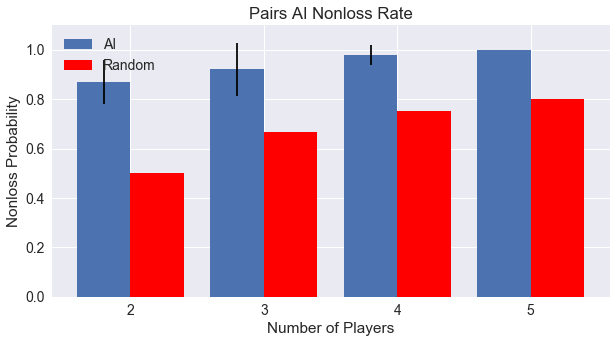
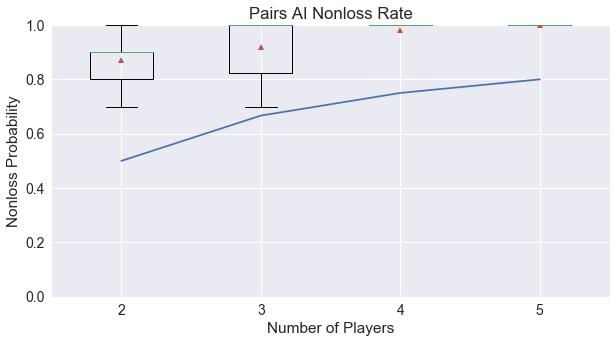
Pairs heuristics post, replaced old bar charts with box plots.

diff --git a/_posts/2019-02-04-pairs-heuristics.md b/_posts/2019-02-04-pairs-heuristics.md
@@ -1,0 +1,118 @@
+---
+layout: post
+title:  "Pairs: Advanced Heuristics"
+date:   2019-02-04 08:43:18 -0600
+categories: PRESS-YOUR-LUCK
+image: images/pairs3.jpg
+author: Mark Goadrich
+avatar: images/goadrich.png
+authorhome: http://mark.goadrich.com
+comments: true
+---
+
+It's been a month since the last post (I'm slowly realizing this will blog not be as regular as I hoped) but
+some of my other work is wrapping up, so time for more card game analysis!
+
+Now that we've seen some [basic statistics for Pairs]({% post_url 2019-01-09-pairs-statistics %}),
+let's see how it scores on our heuristics of **Fairness, Convergence, Spread, Drama, and Security**. 
+(See this previous post for a [review of the heuristics]({% post_url 2018-12-11-heuristics %}) I'll be 
+discussing.)
+
+#### Fairness = 0.99
+
+The graph here shows a box plot of the first player's win rate from 2 to 5 players, with the blue
+line showing the expected win rate for an average player.
+It looks like Pairs is overall a very fair game! In [previous work](http://mark.goadrich.com/articles/issue-2-1-09-recycled.pdf), 
+we looked at how the rule that the player with the lowest card goes first mitigates some, but not
+all, of the turn-order bias. But, since the first player is decided after the cards have been
+dealt each round, then any internal bias is averaged out across all players. 
+
+![Pairs Fairness]({{site.url}}{{site.baseurl}}/images/pairs/fairness.png){:class="post-image"}
+
+#### Convergence = 0.5
+
+Pairs players always have two choices, either to press on for another card, or take the lowest
+visible card and cut their losses. Therefore, convergence is rather uninteresting with a 
+perfectly flat slope. Moving on ...
+
+![Pairs Convergence]({{site.url}}{{site.baseurl}}/images/pairs/convergence.png){:class="post-image"}
+
+#### Spread = 0.27
+
+Recall that 
+spread is the average difference between the minimum and maximum win estimates 
+that a player estimates for themselves throughout the game. If this is high, then 
+it is evidence that the player is making interesting decisions. 
+
+The spread of scores for Pairs is much larger than we saw in Agram. First, we have a
+good way to separate the players into ranks depending on their total points at 
+the end of the game. And as you can see from the lead history below for a five-player game, there's a 
+fair amount of movement in the ranks as the game progresses.
+
+![Low Spread]({{site.url}}{{site.baseurl}}/images/pairs/allaionegame2.png){:class="post-image"}
+
+#### Drama = 0.32
+
+Looking at the above picture, the drama of Pairs appears to be low, with the player
+in blue confident in their victory after only 20% of the game has been played. However, 
+other lead histories show a different story, as shown below.
+
+![Low Spread]({{site.url}}{{site.baseurl}}/images/pairs/allaionegame.png){:class="post-image"}
+
+What a tense game! Red takes a hit early and never gets back in the game. Green appears to
+be coasting to victory after Purple takes a hit, followed quickly by Blue. But nothing is
+certain, and at around three-quarters of the game, Green takes on points, letting Purple
+regain the lead in the final rounds! With such large swings below the blue dotted
+drama threshold, we can see why this heuristic is much higher than Agram.
+
+The graph below shows the aggregate of 100 games of Pairs with AI players. 
+It appears that players start out thinking they can avoid losing the game. Each time a 
+player takes points, they fall drastically in the rankings. Sometimes they recover, but
+its a slow crawl back up, and more often than not, they stay in the lower half of the graph until the end of the game.
+
+![Pairs All AI Rank Estimate]({{site.url}}{{site.baseurl}}/images/pairs/allairankestimate.png){:class="post-image"}
+
+#### Security = 0.51
+
+When we shade the lead histories with the winner in red and the other players in black, we can 
+see that the drama is mostly in the first half of the game. The real fight in Pairs is to 
+not lose the game, once you've taken a hit, the recovery is slow. This leads to a 
+high score for security, which is the percentage of the game the winning player
+is above the drama threshold. 
+
+![Pairs All AI Rank Estimate]({{site.url}}{{site.baseurl}}/images/pairs/allairankestimatewinner.png){:class="post-image"}
+
+#### Summary
+
+Here is a graph of all five heuristics for 
+the four-player version of Pairs. Except for convergence, each of these scores
+is higher than Agram. But that's not necessarily a good thing. We want some 
+security in a game, but is 50% too high and becoming boring? Is a high-drama game
+too random for many players? These numbers tell us about the shape of the game, and hopefully
+can be used to help people select games that match their preferences.
+
+![Pairs Heuristics]({{site.url}}{{site.baseurl}}/images/pairs/heuristics.png){:class="post-image"}
+
+Does this analysis track with your experience with Pairs? Are there other games you'd 
+like to see analyzed? I'd love to hear your thoughts below!
+In the syndication of this blog on [boardgamegeek.com](https://boardgamegeek.com/blog/8730/shape-card-games),
+Someone posted that their favorite way to play Pairs was with the [Port variant of the Pirate Deck](http://hippocketgames.com/piratepairs).
+I'll be making a future post on game variants, where I'll definitely discuss this along with the
+Calamities and Continuous variants. Also, from another suggestion, I've replaced some of my previous bar charts
+and error bars with box plots, to give a better picture of the distributions, as well as 
+avoid calculating error bars that impossibly go beyond 100%. Thanks for the comments!
+
+#### Up Next - Ninety-Eight
+
+Our next game genre will be an [Adder](https://www.pagat.com/adders/), where you add card values
+of cards played, trying to reach or avoid a certain total. The simplest game of this 
+genre is [Ninety-Eight](https://www.pagat.com/adders/98.html), and its mechanics are at the
+core of commercial games such as
+[O'NO 99](https://boardgamegeek.com/boardgame/7803/ono-99),
+[BOOMO](https://boardgamegeek.com/boardgame/1333/boom-o), and
+[5 Alive](https://boardgamegeek.com/boardgame/1961/5-alive). 
+
+Give the rules a try, and
+I'll walk through the RECYCLE coding for Ninety-Eight next! 
+
+(Image courtesy of [BoardGameGeek](https://boardgamegeek.com/image/3677019/pairs))
